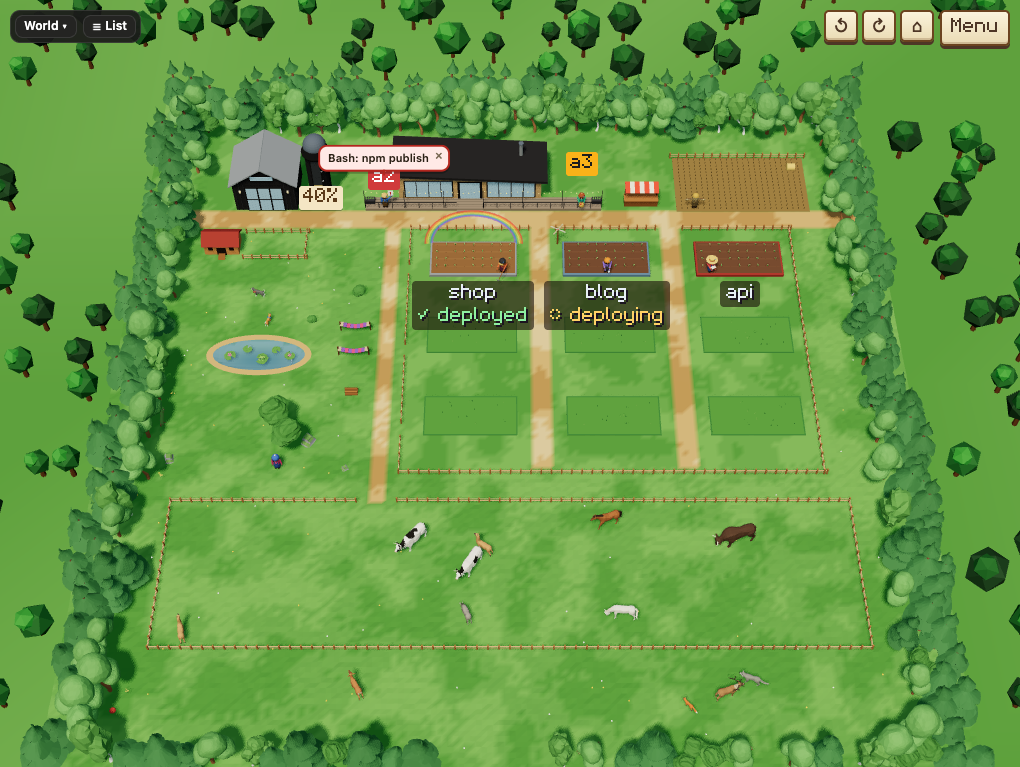
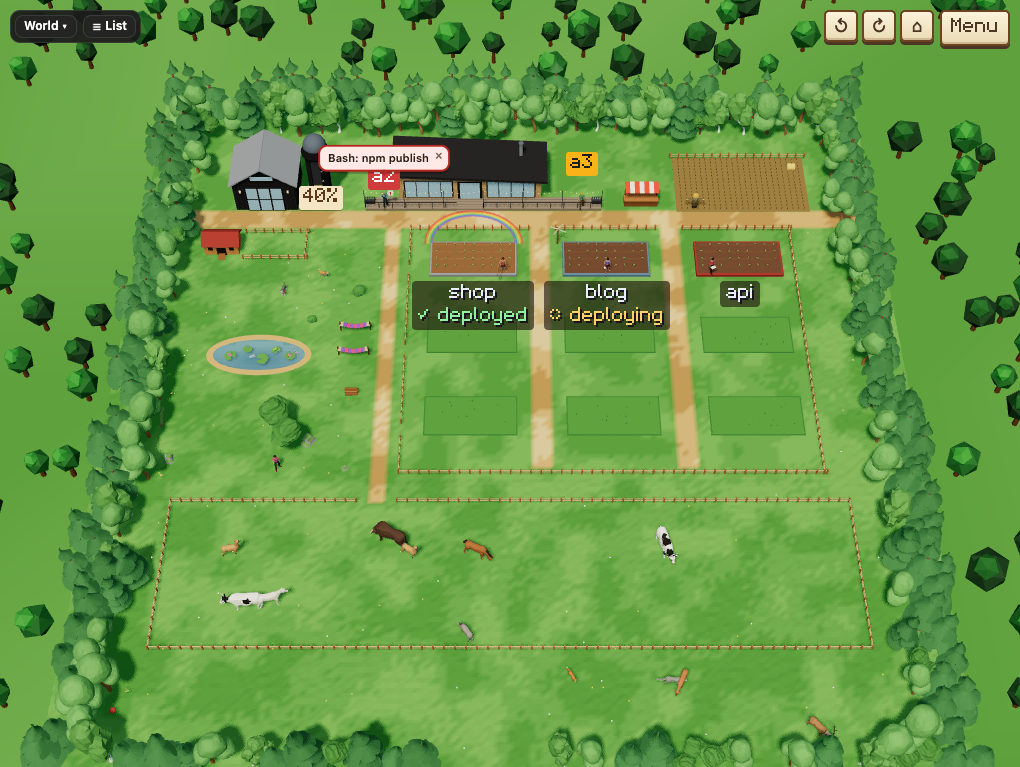
3D farm: the farmers as Quaternius's characters
characters.js (no three.js) picks each agent's character by its id (stable, spread over the nine)
and the clip for each of the figurine's poses. build/character.js loads a model once and bakes it
into two skinned meshes on its skeleton, the shirt (in the agent's colour) and the rest (a colour
per vertex), so a farmer is two draw calls; a tool sits in its right hand as it did in the
figurine's (the hand's turn and size while it holds one, measured once); a nap lies along the
hammock. build/figurine.js becomes the character once it has loaded (the figurine stands in till
then, and stays for a scarecrow), with the model's pin on its chest; a fast farmer runs.

Tests: the character for an id, spread, every pose's clip; farm3d-check: every farmer a character
in its colour, one waving. Busiest stop 574 draw calls (636 with the figurines). README Farmers
bullet and size, docs/worlds.md's row, docs/farm3d.png.

diff --git a/web/worlds/farm3d/build/figurine.js b/web/worlds/farm3d/build/figurine.js
@@ -3,8 +3,12 @@
 // pin on it, and a beard, glasses or cheeks. A stale farmer is a scarecrow on a pole, in straw and sacking. Each moving
 // part (the body, two legs, two arms) is one baked mesh (shapes.merge), so a farmer is a handful of draw calls; the
 // baked geometry is shared by every farmer who looks the same. Badges float over the head; a ring marks the one the
-// page's sidebar shows.
+// page's sidebar shows. Once its character's model has loaded (build/character.js; characters.js picks which by its
+// id), a farmer is that character instead, in its shirt colour, its tool in hand, the model's pin on its chest; the
+// figurine stands in until then, and stays for a scarecrow.
 import { CART_FLAG, propOf } from './props.js';
+import { makeCharacters } from './character.js';
+import { characterFor } from '../characters.js';
 
 const SCARECROW = { shirt: '#8b7a55', bottom: '#6b5a3a', skin: '#d8c48a', hair: '#c9a24a', hat: '#c9a24a', band: '#7a5230' };
 const shade = (hex, k) => `#${[1, 3, 5].map(i => Math.min(255, Math.round(parseInt(hex.slice(i, i + 2), 16) * k)).toString(16).padStart(2, '0')).join('')}`;
@@ -12,7 +16,7 @@ const HAT_TOP = { straw: 1.82, cap: 1.81, beanie: 1.9, bandana: 1.77, none: 1.7 
 export const FIGURE_SCALE = 1.2; // a little larger than life, as the 2D farm's are: they are seen from above
 
 export function makeFigures(THREE, mats, S) {
-  const material = mats.std('#ffffff', { vertexColors: true });
+  const material = mats.std('#ffffff', { vertexColors: true }), people = makeCharacters(THREE);
   // Baked geometry, shared by every figure that looks the same, and freed when the last of them goes (a day of
   // agents coming and going leaves nothing behind).
   const cache = new Map(); // key → { geo, users }
@@ -80,10 +84,12 @@ export function makeFigures(THREE, mats, S) {
     root.userData.id = f.id;
     const pivots = {}, owner = {};
     let dressed = '', prop = null, propName = '', badge = null, badgeName = '', think = null, pole = null;
+    let char = null, charKind = null, pinDot = null, lastF = f; // its character, once loaded
     const ring = new THREE.Mesh(ringGeo, ringMat);
     ring.visible = false; ring.position.y = 0.03;
     root.add(ring);
     function dress(f2) {
+      lastF = f2;
       const look = f2.look ?? {}, scare = f2.scarecrow;
       const c = scare ? SCARECROW : { shirt: f2.shirt ?? '#d9673a', bottom: look.bottomColor ?? '#3c5a99', skin: look.skin ?? '#f1c7a1', hair: look.hair ?? '#5a3a22', hat: look.hatColor ?? '#e9c46a', band: look.band ?? '#b5562f' };
       const lk = scare ? { ...look, hat: look.hat === 'none' ? 'straw' : look.hat, extra: 'none' } : look;
@@ -109,6 +115,15 @@ export function makeFigures(THREE, mats, S) {
         fig.position.y = 0.25;
         pivots.armL.rotation.z = -1.45; pivots.armR.rotation.z = 1.45;
       } else fig.position.y = 0;
+      // its character (none for a scarecrow): made once its model has loaded; the figurine stands in till then
+      const kind = scare ? null : characterFor(f2.id);
+      if (char && kind !== charKind) { char.dispose(); char = null; }
+      charKind = kind;
+      if (kind && !char) { char = people.make(kind); if (char) root.add(char.root); }
+      if (char) char.setShirt(c.shirt);
+      fig.visible = !char;
+      if (pinDot) { pinDot.removeFromParent(); pinDot = null; }
+      if (char && pin) { pinDot = new THREE.Mesh(baked(`pin|${pin}`, [{ geo: 'sphere', color: pin, pos: [0.15, 1.42, 0.16], scale: [0.06, 0.06, 0.05] }]), material); root.add(pinDot); }
       propName = ''; // put the prop back on the new arms
     }
     function setProp(name, flag) {
@@ -120,17 +135,18 @@ export function makeFigures(THREE, mats, S) {
       const p = propOf(name), g = baked(`prop|${name}|${flag}`, [...p.parts, ...(name === 'cart' && flag ? CART_FLAG : [])]);
       prop = new THREE.Mesh(g, material);
       prop.castShadow = true;
-      if (p.at === 'right') { prop.position.set(0, -0.44, 0); pivots.armR.add(prop); }
-      else if (p.at === 'chest') { prop.position.set(0, 0.95, 0.42); fig.add(prop); }
-      else if (p.at === 'eye') { prop.position.set(0.1, 1.42, 0.25); fig.add(prop); }
-      else { prop.position.set(0, 0, 0.55); fig.add(prop); }
+      const body = char ? root : fig;
+      if (p.at === 'right') { if (char) char.holdInHand(prop); else { prop.position.set(0, -0.44, 0); pivots.armR.add(prop); } }
+      else if (p.at === 'chest') { prop.position.set(0, 0.95, 0.42); body.add(prop); }
+      else if (p.at === 'eye') { prop.position.set(0.1, 1.42, 0.25); body.add(prop); }
+      else { prop.position.set(0, 0, 0.55); body.add(prop); }
       prop.userData.pose = p.pose;
     }
     function setBadge(name, thinking) {
       if (name !== badgeName) {
         badgeName = name;
         if (badge) { badge.removeFromParent(); badge = null; }
-        if (name === 'basket') { badge = new THREE.Mesh(baked('badge|basket', BADGES.basket), material); badge.position.set(0, 0.62, 0.42); fig.add(badge); }
+        if (name === 'basket') { badge = new THREE.Mesh(baked('badge|basket', BADGES.basket), material); badge.position.set(0, 0.62, 0.42); (char ? root : fig).add(badge); }
         else if (name) { badge = new THREE.Mesh(baked(`badge|${name}`, BADGES[name]), material); badge.position.set(0.58, 1.75, 0); root.add(badge); } // beside the head, as the 2D farm has it, so the name tag can sit just over the hat
         if (badge) badge.castShadow = true;
       }
@@ -144,13 +160,18 @@ export function makeFigures(THREE, mats, S) {
      * clock (0 holds it still).
      */
     function pose(kind, t) {
+      let arrived = false;
+      if (!char && charKind && people.ready(charKind)) { dressed = ''; dress(lastF); arrived = Boolean(char); } // its character has just loaded
+      if (badge && badgeName !== 'basket') badge.position.y = 1.75 + (t ? Math.abs(Math.sin(t * 3)) * 0.1 : 0);
+      if (think) think.position.y = 2.1 + (t ? Math.sin(t * 2) * 0.05 : 0);
+      if (char) { char.pose(kind, t); if (pinDot) pinDot.visible = kind !== 'nap'; return arrived; }
       const { legL, legR, armL, armR } = pivots, s = Math.sin(t * 9), w = Math.sin(t * 5);
       if (!legL) return;
       fig.rotation.set(0, 0, 0);
       fig.position.y = pole ? 0.25 : 0;
       legL.rotation.set(0, 0, 0); legR.rotation.set(0, 0, 0);
       if (kind !== 'scarecrow') { armL.rotation.set(0, 0, 0); armR.rotation.set(0, 0, 0); }
-      if (kind === 'walk') { legL.rotation.x = s * 0.6; legR.rotation.x = -s * 0.6; armL.rotation.x = -s * 0.5; armR.rotation.x = s * 0.5; fig.position.y = Math.abs(s) * 0.05; }
+      if (kind === 'walk' || kind === 'run') { legL.rotation.x = s * 0.6; legR.rotation.x = -s * 0.6; armL.rotation.x = -s * 0.5; armR.rotation.x = s * 0.5; fig.position.y = Math.abs(s) * 0.05; }
       else if (kind === 'swing') { armR.rotation.x = -1.3 + w * 0.6; armL.rotation.x = -0.9 + w * 0.35; fig.rotation.x = 0.08 + w * 0.04; }
       else if (kind === 'hold') { armL.rotation.x = -0.95; armR.rotation.x = -0.95 + Math.sin(t * 1.5) * 0.05; armL.rotation.z = 0.25; armR.rotation.z = -0.25; }
       else if (kind === 'raise') { armR.rotation.x = -2.2; armR.rotation.z = 0.35; armL.rotation.x = -0.4; }
@@ -159,14 +180,14 @@ export function makeFigures(THREE, mats, S) {
       else if (kind === 'wave') { armR.rotation.z = 2.6 + Math.sin(t * 8) * 0.35; }
       else if (kind === 'nap') { fig.rotation.x = -Math.PI / 2; fig.position.y = 1.05; armL.rotation.z = -0.2; armR.rotation.z = 0.2; }
       else if (kind === 'idle') { armL.rotation.z = -0.08; armR.rotation.z = 0.08; fig.position.y = Math.sin(t * 1.4) * 0.01; }
-      if (badge && badgeName !== 'basket') badge.position.y = 1.75 + (t ? Math.abs(Math.sin(t * 3)) * 0.1 : 0);
-      if (think) think.position.y = 2.1 + (t ? Math.sin(t * 2) * 0.05 : 0);
     }
     const figure = {
       root, pivots, pose, setProp, setBadge, propPose: () => prop?.userData.pose ?? null,
       setSelected(on) { ring.visible = on; },
       update(f2) { dress(f2); },
-      dispose() { root.removeFromParent(); release(owner); },
+      /** Which character it is, what it plays and its shirt's colour (for the check); null while the figurine stands in. */
+      info: () => (char ? { character: charKind, clip: char.playing(), shirt: lastF.shirt ?? null } : null),
+      dispose() { char?.dispose(); root.removeFromParent(); release(owner); },
     };
     dress(f);
     return figure;

diff --git a/web/worlds/farm3d/build/character.js b/web/worlds/farm3d/build/character.js
@@ -1,0 +1,129 @@
+// A farmer as one of Quaternius's characters (characters.js picks which; models/: family `person`): the agent's colour
+// on its shirt (coats.js SHIRTS), the step's tool in its right hand, and a clip for each of the figurine's poses
+// (characters.js clipFor). Each model is loaded once and baked into two skinned meshes on its own skeleton: the shirt,
+// in the agent's colour, and the rest, a colour per vertex, so a farmer is two draw calls (and two for its shadow).
+// build/figurine.js keeps its own figure until a character has loaded, and for a scarecrow.
+import { GLTFLoader } from '../vendor/GLTFLoader.js';
+import { clone as cloneSkinned } from '../vendor/SkeletonUtils.js';
+import { mergeGeometries } from '../vendor/BufferGeometryUtils.js';
+import { MODELS } from '../models/index.js';
+import { FINISH, SHIRTS } from '../coats.js';
+import { clipFor } from '../characters.js';
+
+export function makeCharacters(THREE) {
+  const loader = new GLTFLoader(), templates = new Map(), loads = new Map();
+  const restMat = new THREE.MeshStandardMaterial({ vertexColors: true, flatShading: true, ...FINISH });
+  const shirts = new Map(); // a shirt material per colour, shared by every farmer wearing it
+  const shirtOf = colour => { if (!shirts.has(colour)) shirts.set(colour, new THREE.MeshStandardMaterial({ color: colour, flatShading: true, ...FINISH })); return shirts.get(colour); };
+  const under = (o, names) => { for (let p = o; p; p = p.parent) if (names.includes(p.name)) return true; return false; };
+
+  /** Loads a character's model once: baked into its shirt and the rest, sized to its height with its feet at 0. */
+  function load(kind) {
+    if (!loads.has(kind)) loads.set(kind, (async () => {
+      const b64 = (await import(`../models/${kind}.js`)).default, bytes = Uint8Array.from(atob(b64), c => c.charCodeAt(0));
+      const gltf = await loader.parseAsync(bytes.buffer, ''), scene = gltf.scene, shirt = SHIRTS[kind];
+      scene.updateMatrixWorld(true);
+      const box = new THREE.Box3().setFromObject(scene), size = box.getSize(new THREE.Vector3()); // as it came, before baking
+      const meshes = [];
+      scene.traverse(o => { if (o.isSkinnedMesh) meshes.push(o); });
+      const first = meshes[0], rest = [], top = [];
+      for (const m of meshes) {
+        const g = m.geometry.clone(), c = m.material.color, n = g.attributes.position.count;
+        for (const name of Object.keys(g.attributes)) if (!['position', 'skinIndex', 'skinWeight'].includes(name)) g.deleteAttribute(name);
+        const isShirt = under(m, shirt.meshes) && m.material.name === shirt.material;
+        if (!isShirt) g.setAttribute('color', new THREE.BufferAttribute(new Float32Array(n * 3).map((_, i) => [c.r, c.g, c.b][i % 3]), 3));
+        (isShirt ? top : rest).push(g);
+      }
+      const baked = (geos, material) => {
+        const mesh = new THREE.SkinnedMesh(mergeGeometries(geos), material);
+        mesh.position.copy(first.position); mesh.quaternion.copy(first.quaternion); mesh.scale.copy(first.scale);
+        mesh.bind(first.skeleton, first.bindMatrix);
+        mesh.castShadow = mesh.receiveShadow = true;
+        mesh.frustumCulled = false;
+        first.parent.add(mesh);
+        return mesh;
+      };
+      const restMesh = baked(rest, restMat), shirtMesh = baked(top, shirtOf('#888888'));
+      shirtMesh.userData.shirt = true;
+      for (const m of meshes) m.removeFromParent();
+      restMesh.userData.rest = true;
+      const clips = new Map(gltf.animations.map(c => [c.name, c])), scale = MODELS[kind].height / (size.y || 1);
+      // a tool in the hand: how the hand is turned and sized while it holds one (Idle_Sword's first frame), so a tool
+      // made for the figurine's arm (hanging from the hand, the arm raised 0.95 rad) sits in it the same way
+      const mixer = new THREE.AnimationMixer(scene), hold = mixer.clipAction(clips.get(MODELS[kind].clips.hold));
+      hold.play();
+      mixer.update(0);
+      scene.updateMatrixWorld(true);
+      const wrist = scene.getObjectByName('WristR'), q = new THREE.Quaternion(), sv = new THREE.Vector3();
+      wrist.getWorldQuaternion(q);
+      wrist.getWorldScale(sv);
+      hold.stop();
+      mixer.uncacheRoot(scene);
+      const grip = { turn: q.invert().multiply(new THREE.Quaternion().setFromAxisAngle(new THREE.Vector3(1, 0, 0), -0.95)), size: 1 / (scale * (sv.x || 1)) };
+      templates.set(kind, { scene, clips, scale, lift: -box.min.y, grip });
+    })());
+    return loads.get(kind);
+  }
+
+  /**
+   * A character for a farmer, once its model has loaded (else null; the load starts): `root` to add, `pose(kind, t)`,
+   * `setShirt(colour)`, `hand` (where a tool goes), and `dispose()`. Its size is the figurine's (1.95 m before the
+   * figure's own scale).
+   */
+  function make(kind) {
+    const t = templates.get(kind);
+    if (!t) { load(kind); return null; }
+    const root = new THREE.Group(), holder = new THREE.Group(), model = cloneSkinned(t.scene);
+    holder.scale.setScalar(t.scale);
+    holder.position.y = t.lift * t.scale;
+    holder.add(model);
+    root.add(holder);
+    let shirtMesh = null;
+    model.traverse(o => { if (o.userData.shirt) shirtMesh = o; });
+    const mixer = new THREE.AnimationMixer(model), actions = new Map();
+    for (const [name, clip] of t.clips) actions.set(name, mixer.clipAction(clip));
+    const hand = model.getObjectByName('WristR');
+    let playing = null, playingName = '', lastT = 0;
+    function play(name, once) {
+      const next = actions.get(name);
+      if (!next || name === playingName) return;
+      next.reset();
+      next.setLoop(once ? THREE.LoopOnce : THREE.LoopRepeat, Infinity);
+      next.clampWhenFinished = once;
+      next.play();
+      if (playing) next.crossFadeFrom(playing, 0.25, false);
+      playing = next;
+      playingName = name;
+    }
+    return {
+      root, hand,
+      /** Puts a tool (made for the figurine's hand) in its right hand. */
+      holdInHand(object) {
+        const g = new THREE.Group();
+        g.quaternion.copy(t.grip.turn);
+        g.scale.setScalar(t.grip.size);
+        g.add(object);
+        hand?.add(g);
+        return g;
+      },
+      /** What it is playing now (for the check). */
+      playing: () => playingName,
+      /** The pose for now (the figurine's kinds); t the clock, 0 holding it still. */
+      pose(kind2, t2) {
+        const clips = MODELS[kind].clips, nap = kind2 === 'nap';
+        const part = kind2 === 'idle' && t2 % 15 > 11 ? 'idle2' : clipFor(kind2); // now and then the other idle
+        play(clips[part] ?? clips.idle, nap);
+        // lying along the hammock (it runs across the farmer's view, sagging to 0.7 m), its middle over the hammock's
+        holder.position.set(nap ? 0.8 : 0, nap ? 0.55 : t.lift * t.scale, 0);
+        holder.rotation.y = nap ? Math.PI / 2 : 0;
+        const dt = t2 ? Math.min(0.1, Math.max(0, t2 - lastT)) : 0;
+        lastT = t2;
+        if (!t2 && nap && playing) playing.time = playing.getClip().duration; // still: already lying down
+        mixer.update(dt);
+      },
+      setShirt(colour) { if (shirtMesh) shirtMesh.material = shirtOf(colour); },
+      dispose() { mixer.stopAllAction(); root.removeFromParent(); },
+    };
+  }
+  return { load, make, ready: kind => templates.has(kind) };
+}

diff --git a/web/worlds/farm3d/build/farmers.js b/web/worlds/farm3d/build/farmers.js
@@ -71,8 +71,8 @@ export function makeFarmers(THREE, figures, S) {
       fig.root.rotation.y = b.face;
       fig.setProp(moving ? null : f.prop, f.flag);
       fig.setBadge(f.badge === 'basket' && moving ? null : f.badge, f.thinking);
-      const kind = moving ? 'walk' : f.scarecrow ? 'scarecrow' : f.nap ? 'nap' : f.state === 'waiting' ? 'wave' : f.badge === 'basket' ? 'basket' : f.state === 'working' ? fig.propPose() ?? 'hold' : 'idle';
-      fig.pose(kind, still ? 0 : t);
+      const kind = moving ? (f.fast ? 'run' : 'walk') : f.scarecrow ? 'scarecrow' : f.nap ? 'nap' : f.state === 'waiting' ? 'wave' : f.badge === 'basket' ? 'basket' : f.state === 'working' ? fig.propPose() ?? 'hold' : 'idle';
+      if (fig.pose(kind, still ? 0 : t)) walking = true; // a character just arrived: draw it, still or not
     }
     return walking;
   }
@@ -88,5 +88,7 @@ export function makeFarmers(THREE, figures, S) {
     hits: () => [...bodies.values()].map(b => b.fig.root),
     select(id) { for (const [k, b] of bodies) b.fig.setSelected(k === id); },
     count: () => bodies.size,
+    /** A farmer's character, what it plays and its shirt (for the check); null while its figurine stands in. */
+    info: id => bodies.get(id)?.fig.info() ?? null,
   };
 }

diff --git a/web/worlds/farm3d/characters.js b/web/worlds/farm3d/characters.js
@@ -1,0 +1,18 @@
+// Which of Quaternius's characters (models/, family `person`) a farmer is, and which of its clips plays each of the
+// figurine's poses (build/figurine.js names them). No three.js: build/character.js draws them, the tests run it.
+
+/** The characters, in the order an agent's id picks from. */
+export const CHARACTERS = ['farmer', 'worker', 'casual', 'hoodie', 'business', 'beach', 'woman', 'womancasual', 'womanadventurer'];
+
+/** An agent's character: from its id, the same every time, spread over them all. */
+export function characterFor(id) {
+  let h = 0x811c9dc5;
+  for (const ch of String(id)) h = Math.imul(h ^ ch.charCodeAt(0), 0x01000193) >>> 0;
+  h = Math.imul(h ^ (h >>> 15), 0x2c1b3c6d) >>> 0; // stir, so ids that differ by a letter spread
+  return CHARACTERS[((h ^ (h >>> 12)) >>> 0) % CHARACTERS.length];
+}
+
+/** The figurine's poses, every one a character plays. */
+export const POSES = ['walk', 'run', 'swing', 'hold', 'raise', 'carry', 'push', 'wave', 'basket', 'idle', 'nap'];
+/** The part (models/index.js names its clip) a pose plays: a basket and a cart are carried as a crate is. */
+export const clipFor = pose => ({ push: 'carry', basket: 'carry' })[pose] ?? pose;

diff --git a/web/worlds/farm3d/app.js b/web/worlds/farm3d/app.js
@@ -278,6 +278,10 @@ export function start({ el, opts, prefs }) {
     screenOf: id => { const h = farmers.headOf(id); return h ? project(h) : null; }, // where a farmer's head is in the picture, in pixels
     /** The plants drawn, by kind (none until their models have loaded). */
     plants: () => nature.count(),
+    /** A farmer as drawn: its character, the clip it plays, its shirt's colour (null while the figurine stands in). */
+    farmer: id => farmers.info(id),
+    /** The farmers drawn, by id (stale ones are scarecrows). */
+    farmerIds: () => (model?.farmers ?? []).filter(f => !f.scarecrow).map(f => f.id),
     /** The wind in the trees: its clock and strength. */
     wind: () => nature.wind(),
     /** Animal i: its kind, what it is doing, where it is on the 2D map, and where its middle is in the picture, in pixels. */

diff --git a/docs/worlds.md b/docs/worlds.md
@@ -37,7 +37,7 @@ Keys: a built-in world is named by its folder in `web/worlds/` (the farm is `far
 | 🌾 **Farm** | `farm` | Built in, and the default: every agent a farmer, every repo a field, with animals of its own. The README's "The farm" says what each thing on it means |
 | 🤖 **Robot factory** | `factory` | Built in: a bright workshop where every agent is a robot put together from parts picked by its id, and every repo an assembly bay where a robot is built as the context fills. It shows everything the farm shows, its own way: the 5-hour limit is floor heat (its season switch is **Heat**: `seasonNames`), a message is a capsule through pneumatic tubes (its own `flight`), and its panel and Menu are the farm's (`panelHud`) in its words. A robot dog, a robot vacuum and a cat live there. `factory.png` below is taken from the golden `factory-day` view (`npm run golden`, the factory chosen by day, animals off), so retake it from that view. The README's "The robot factory" says what each thing means; `web/worlds/factory/world.js` is the second full example after the farm |
 | 🎖 **Field exercise** | `military` | Built in: a bright, friendly army base on manoeuvres where every agent is a soldier in a field jacket of its colour (the people kit's `jacket`), and every repo a position fortified as the context fills, until its flag is raised. It shows everything the farm shows, its own way, and nobody is ever shown hurt: the 5-hour limit is the alert level (its season switch is **Alert**: `seasonNames`; its `coldSeason` is `null`, so its animals never act cold at max), a message is the engine's carrier pigeon, and its panel and Menu are the farm's (`panelHud`) in drill words. The regimental mascots live there: a goat in a red dress coat (the goat's `mascot` look), the mess cat and two depot mice. `military.png` below is taken from the golden `military-day` view (`npm run golden`, the field exercise chosen by day, animals off), so retake it from that view. The README's "The field exercise" says what each thing means; `web/worlds/military/world.js` is the third full example |
-| 🚜 **3D farm** | `farm3d` | Built in, a prototype: the farm drawn in 3D with three.js, a low-poly diorama. It is the example of a world that draws itself (`Agentville.raw`) and imports ES modules from its own folder (`world.js` registers, then `import('./app.js')`; see "Modules", in "Running a world"), with three.js 0.186.1 copied into its `vendor/` (the frame may load scripts from the dashboard only) and every shape built in code (a frame can't fetch a model file, and the dashboard's pictures can't be WebGL textures), but for its animals and plants: the twelve animated models of a CC0 pack, for its pond a frog, three fish and a lily pad, and flat-coloured trees, bushes and rocks (CC0 single models: where each grows is its `nature.js`, drawn one `InstancedMesh` per model part, swayed by the wind in their materials' vertex shader), packed into JS files in its `models/` and read with three.js's glTF loader (see "Modules"), then repainted as they load from its `coats.js` (a colour for each of a model's materials, by the material's name, and the farm's matte finish; the cows' spots a colour per face), so the model files stay as their maker made them. What they get up to, their habits and the menu a click on one opens, is plain logic in its `antics.js`, and where they may go (each herd's ground less the pond, the trees and the fences, for a body of its size; the pond's water and lily pads) is its `roam.js`, both apart from three.js, so its tests run them in Node; the animals' hit boxes are invisible meshes the click's ray finds. The far meadow under the farm is drawn first and hides nothing (`depthWrite` off), so the pond's hollow and its fish can lie below it. It follows the farm's rules from the scene (its `model.js`, whose copies of the farm's tables and rules `collector/test/farm3d.test.mjs` pins to the farm's own), and shows less than the farm for now (the README's "The 3D farm (prototype)"). `farm3d.png` below is taken from `npm run world-shots -- farm3d --stop everyone`, cropped to the world. check-world can't run it (its vm has no modules or WebGL) and says so; `npm run farm3d-check` checks it in headless Chrome |
+| 🚜 **3D farm** | `farm3d` | Built in, a prototype: the farm drawn in 3D with three.js, a low-poly diorama. It is the example of a world that draws itself (`Agentville.raw`) and imports ES modules from its own folder (`world.js` registers, then `import('./app.js')`; see "Modules", in "Running a world"), with three.js 0.186.1 copied into its `vendor/` (the frame may load scripts from the dashboard only) and every shape built in code (a frame can't fetch a model file, and the dashboard's pictures can't be WebGL textures), but for its animals and plants: the twelve animated models of a CC0 pack, for its pond a frog, three fish and a lily pad, and flat-coloured trees, bushes and rocks (CC0 single models: where each grows is its `nature.js`, drawn one `InstancedMesh` per model part, swayed by the wind in their materials' vertex shader), and for its farmers nine animated characters (CC0; `characters.js` picks one by the agent's id and a clip for each pose; `build/character.js` bakes each into two skinned meshes, the shirt in the agent's colour and the rest coloured per vertex, the figurine standing in until it loads), packed into JS files in its `models/` and read with three.js's glTF loader (see "Modules"), then repainted as they load from its `coats.js` (a colour for each of a model's materials, by the material's name, and the farm's matte finish; the cows' spots a colour per face), so the model files stay as their maker made them. What they get up to, their habits and the menu a click on one opens, is plain logic in its `antics.js`, and where they may go (each herd's ground less the pond, the trees and the fences, for a body of its size; the pond's water and lily pads) is its `roam.js`, both apart from three.js, so its tests run them in Node; the animals' hit boxes are invisible meshes the click's ray finds. The far meadow under the farm is drawn first and hides nothing (`depthWrite` off), so the pond's hollow and its fish can lie below it. It follows the farm's rules from the scene (its `model.js`, whose copies of the farm's tables and rules `collector/test/farm3d.test.mjs` pins to the farm's own), and shows less than the farm for now (the README's "The 3D farm (prototype)"). `farm3d.png` below is taken from `npm run world-shots -- farm3d --stop everyone`, cropped to the world. check-world can't run it (its vm has no modules or WebGL) and says so; `npm run farm3d-check` checks it in headless Chrome |
 | 🌱 **Starter** | `starter` | The template `npm run new-world` copies: plain, short, and not in the list of worlds (see "The starter world"). It can still be framed, so the test page and `check-world` run it |
 
 ![The farm: every agent a farmer, every repo a field](farm.png)

diff --git a/README.md b/README.md
@@ -1287,12 +1287,16 @@ patch, the pasture across the front, and the meadow and the forest running on al
   the trees at the forest's edge. The wind sways them, harder while a field rains; the lily pads bob.
   Autumn turns the leaves orange and winter brings snowy pines and bushes and bare branches. Until
   their models load, a moment after the farm, simpler shapes stand in.
-- **Farmers** are figurines dressed as on the farm: the agent's colour for the shirt, a hat by its id
-  with the model's pin, and the tool for its step in hand (a hoe for edits, an almanac for reads, a crate
-  for a commit, a cart for a push, with a flag to deploy…). Waiting on you: on the porch's left, waving,
-  with a red **!** (a scroll for a plan). Turn ended: on the porch's right with a basket (**?** when it
-  asked you something). At work: in its bed. Idle: under the shade tree. Stale: a scarecrow. Waking up
-  by itself (`/loop`): in a hammock. A newcomer walks out of the barn and along the lanes to its place.
+- **Farmers** are Quaternius's animated characters (his Ultimate Modular Men and Women packs, the CC0
+  ones: the Farmer, the Worker, Casual, Hoodie, Business Man, Beach and three women), each agent its own
+  by its id, in the agent's colour (a shirt, a vest, a dress), the model's pin on the chest, and the
+  tool for its step in hand (a hoe for edits, an almanac for reads, a crate for a commit, a cart for a
+  push, with a flag to deploy…). They walk (run in fast mode), swing the hoe, hold or carry their tools,
+  and stand about. Waiting on you: on the porch's left, waving, with a red **!** (a scroll for a plan).
+  Turn ended: on the porch's right with a basket (**?** when it asked you something). At work: in its
+  bed. Idle: under the shade tree. Stale: a scarecrow. Waking up by itself (`/loop`): lying in a
+  hammock. A newcomer walks out of the barn and along the lanes to its place. Until a character's model
+  loads, a moment after the farm, a little figurine stands in.
 - **Fields**: crops grow from seed to ripe as context fills (seven crops, one per repo, as on the farm);
   hay, crates and a mailbox for uncommitted files, unpushed commits and commits behind; a pennant for a
   branch, a rope with orange flags when two agents write at once, a greenhouse over a worktree; rain over
@@ -1354,9 +1358,10 @@ without it the world says so and you can pick another. It uses the graphics card
 second, and draws nothing while the page shows its list or the tab is hidden; with **Motion** off (or
 reduced motion) it draws only when something changes. three.js (0.186.1, MIT licence; with its glTF loader
 for the animals) is part of Agentville, in `web/worlds/farm3d/vendor/`, and the models (the animals, the
-plants) are in `web/worlds/farm3d/models/` (about 7 MB, packed into JS files the world imports; the
-eighteen animals, the lily pads and the plants add about 290 draw calls and the plants about 700,000
-triangles, shadows included): nothing is downloaded from anywhere, and the world sees the same
+plants, the farmers' characters) are in `web/worlds/farm3d/models/` (about 12 MB, packed into JS files
+the world imports and loaded a moment after the farm draws; the eighteen animals, the lily pads and the
+plants add about 290 draw calls and the plants about 700,000 triangles, a farmer two draw calls, shadows
+included): nothing is downloaded from anywhere, and the world sees the same
 scene as the farm and sends nothing.
 
 ### Notifications and the bell
